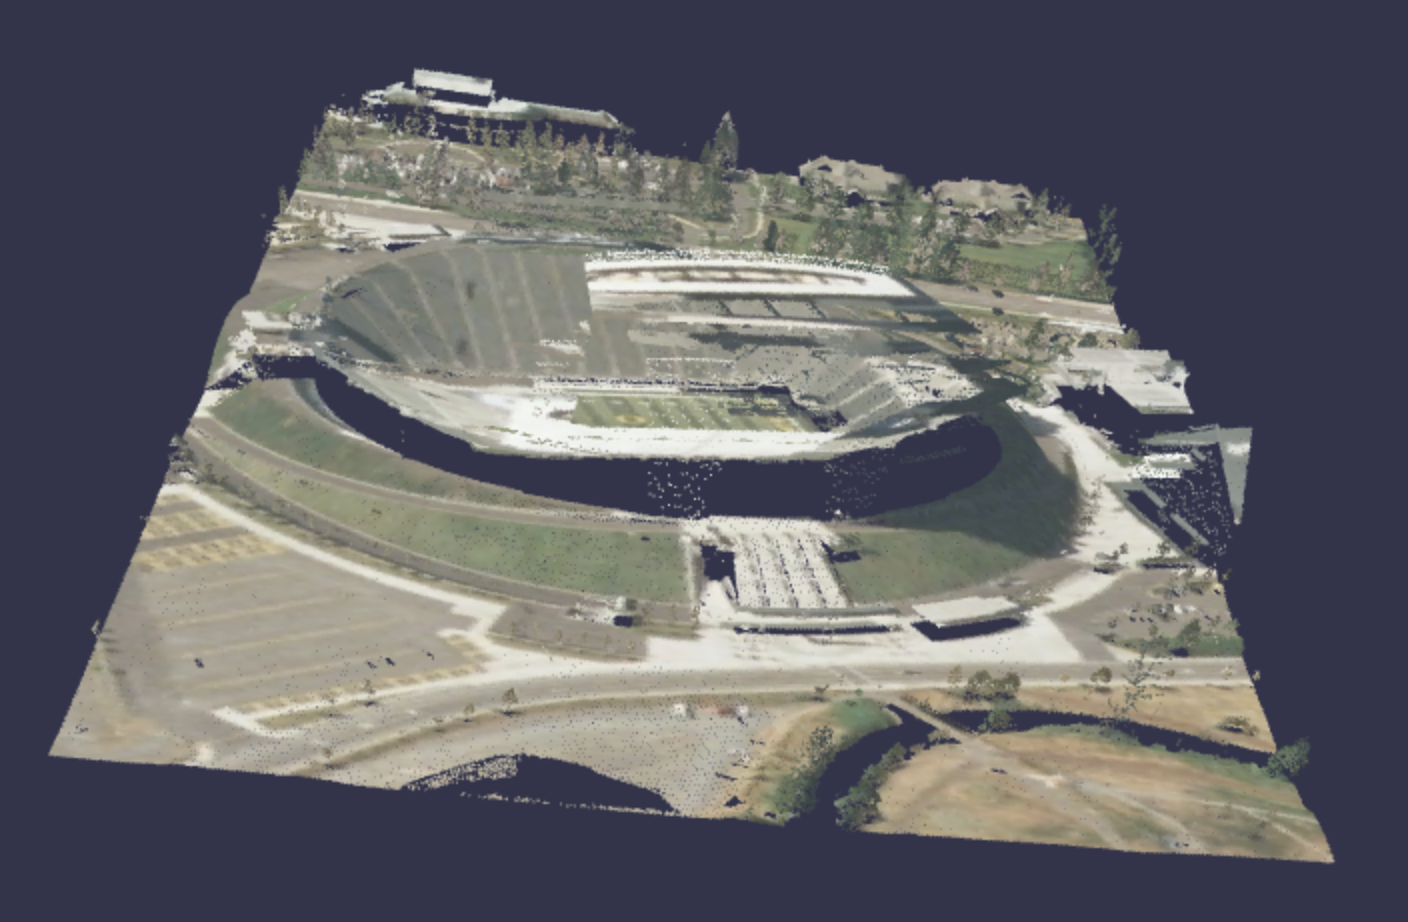
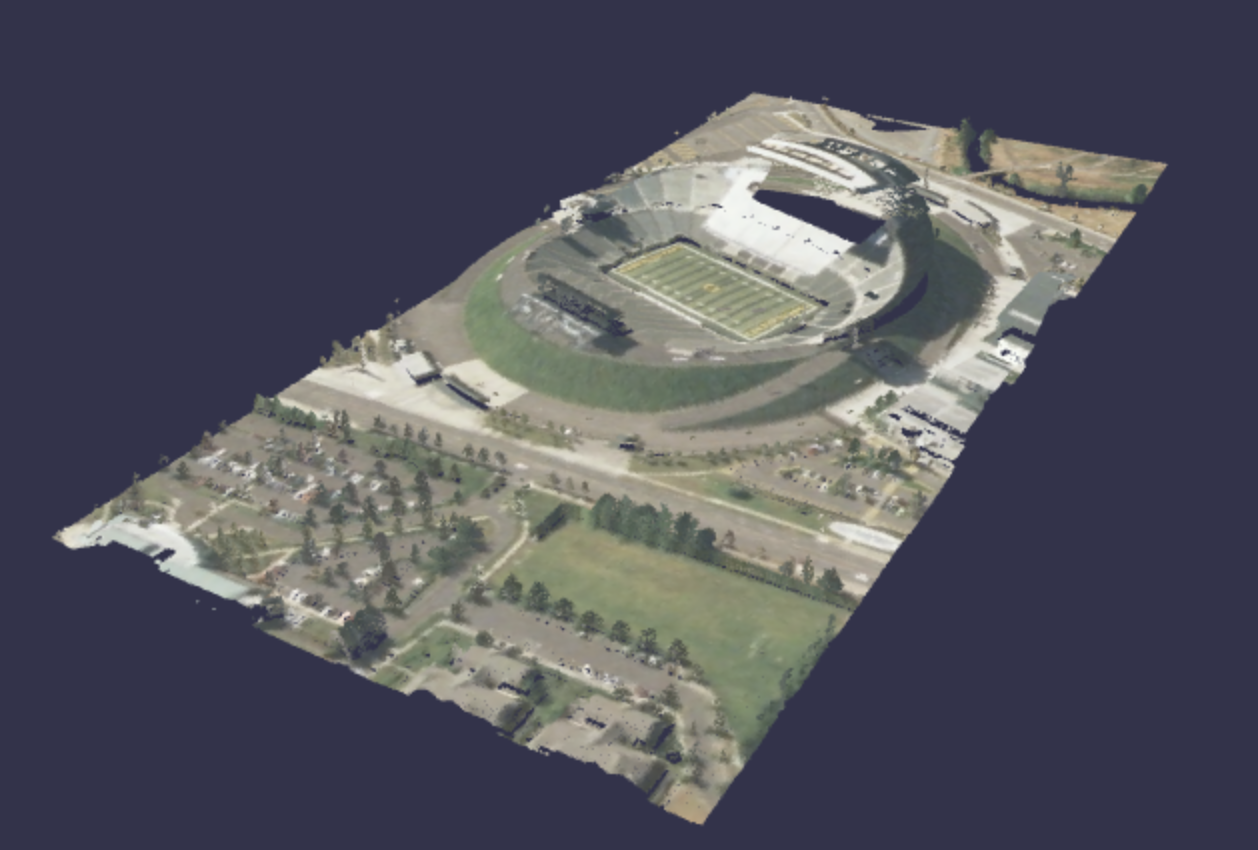
updated MBRS visualization

diff --git a/src/widget.ts b/src/widget.ts
@@ -20,7 +20,6 @@ import "@babylonjs/inspector";
 // Import the CSS
 import '../css/widget.css';
 
-
 export class BabylonBaseModel extends DOMWidgetModel {
   static model_module = MODULE_NAME;
   static model_module_version = MODULE_VERSION;
@@ -298,42 +297,61 @@ export class BabylonMBRSView extends BabylonBaseView {
       const miny = extents[2];
       const maxy = extents[3];
       const minz = extents[4];
-      const maxz = extents[5];
+      const xy_length = Math.min(Math.max(maxx)-Math.min(minx),Math.max(maxy)-Math.min(miny))
       const scale = this.zScale;
- 
+
+      // set up camera
+      scene.createDefaultCameraOrLight(true, true, true)
+      let camera = scene.activeCamera as ArcRotateCamera;
+      camera.alpha += Math.PI;
+      camera.upperBetaLimit = Math.PI / 2;
+      camera.panningAxis = new Vector3(1, 1, 0);
+      camera.panningSensibility = 0.9;
+      camera.panningInertia = 0.2;
+      camera._panningMouseButton = 0;
+
+      if (this.wheelPrecision > 0)
+        camera.wheelPrecision = this.wheelPrecision;
+
+      camera.setTarget(new Vector3((((maxx+minx)/2) - minx) / xy_length, 0, (((maxy+miny)/2) - miny) / xy_length));
+      camera.attachControl(this.canvas, true);
+
       var mat = new StandardMaterial('mt1', scene);
-      mat.alpha = 0.9;
+      mat.alpha = 0.85;
+      mat.diffuseColor = new Color3(0, 0, 0);
+      mat.emissiveColor = new Color3(0.5, 0.5, 0.5);
 
-      const SPS = new SolidParticleSystem("SPS", scene);
+      // create initial particles
+      const SPS = new SolidParticleSystem("SPS", scene, {enableDepthSort: true});
       const box = MeshBuilder.CreateBox("b", {height: 1, width: 1, depth: 1});
-      SPS.addShape(box, data.Xmin.length); 
+      SPS.addShape(box, data.Xmin.length);
+      var mesh = SPS.buildMesh();
+      mesh.material = mat;
       box.dispose(); 
-
-      SPS.buildMesh(); 
-
+      
+      // add dimensions and a random color to each of the particles
       SPS.initParticles = () => {
         for (let p = 0; p < SPS.nbParticles; p++) {
-            const particle = SPS.particles[p];
-            particle.position.x = ((data.Xmax[p]+data.Xmin[p])/2 - minx) / (maxx - minx);
-            particle.position.y = ((data.Ymax[p]+data.Ymin[p])/2 - miny) / (maxy - miny);
-            particle.position.z = (((data.Zmax[p]+data.Zmin[p])/2 - minz) / (maxz - minz)) * scale;
-            particle.scaling.x = (data.Xmax[p]-data.Xmin[p]) / (maxx - minx);
-            particle.scaling.y = (data.Ymax[p]-data.Ymin[p]) / (maxy - miny);
-            particle.scaling.z = ( (data.Zmax[p]-data.Zmin[p]) / (maxz - minz) ) * scale;
-            particle.color = new Color4(0.5 + Math.random() * 0.6, 0.5 + Math.random() * 0.6, 0.5 + Math.random() * 0.6,0.9);
+          const particle = SPS.particles[p];
+          particle.position.x = (((data.Xmax[p]+data.Xmin[p])/2) - minx) / xy_length;
+          particle.position.y = ((((data.Zmax[p]+data.Zmin[p])/2) - minz) / xy_length ) * scale;  
+          particle.position.z = (((data.Ymax[p]+data.Ymin[p])/2) - miny) / xy_length;
+          particle.scaling.x = (data.Xmax[p]-data.Xmin[p]) / xy_length;
+          particle.scaling.y = ((data.Zmax[p]-data.Zmin[p]) / xy_length) * scale;  
+          particle.scaling.z = (data.Ymax[p]-data.Ymin[p]) / xy_length;
+          particle.color = new Color4(0.5 + Math.random() * 0.6, 0.5 + Math.random() * 0.6, 0.5 + Math.random() * 0.6,0.9);   
         }
       };
 
-      SPS.mesh.hasVertexAlpha = true;
-      SPS.initParticles(); 
-      SPS.setParticles(); 
-      SPS.mesh.material = mat;
+      // update SPS mesh
+      SPS.initParticles();
+      SPS.setParticles();
 
-      scene.createDefaultCameraOrLight(true, true, true);
-      let cam = scene.activeCamera as ArcRotateCamera;
-      cam.wheelPrecision = this.wheelPrecision;
-      cam.alpha += Math.PI;
-
+      // animation
+      scene.registerBeforeRender(function() {
+        SPS.setParticles();
+      });
+      
       return scene;
     });
   }

diff --git a/pybabylonjs/visualize.py b/pybabylonjs/visualize.py
@@ -51,7 +51,7 @@ class Show:
         if style == "mbrs":
             dataviz = BabylonMBRS()
             d = create_mbrs(array_uri)
-        if style == "ground":
+        elif style == "ground":
             dataviz = BabylonGround()
             d = create_ground(array_uri, **kwargs)
         else:

diff --git a/README.md b/README.md
@@ -108,27 +108,45 @@ Visualize the 3D point cloud with `pybabylonjs.Show.from_dict()` by specifying `
 show.from_dict(data=data,
                 style = 'pointcloud',
                 width = 800,
-                height = 600,
-                z_scale = .3,
-                wheel_precision = 50)
+                height = 600)
 ```
 
 This creates an interactive visualization in a notebook widget of which the below is a screenshot:
 
 <img src="examples/pointcloud.png"  width="400" height="300" />
 
-### 3D MBRS visualization
-
-This visualization is created directly from a sparse array by specifying the `array`, the style as `mbrs` and optional `height` and `width` parameters:
+To add a slider over time sort the data by `GpsTime` and add the parameter `time=True`:
 
 ```python
-show.from_array(array='autzen',
+with tiledb.open("autzen") as arr:
+    df = pd.DataFrame(arr[636800:637800, 851000:853000, 406.14:615.26])
+    
+df.sort_values(by=["GpsTime"], inplace=True)
+
+data = {
+    'X': df['X'],
+    'Y': df['Y'],
+    'Z': df['Z'],
+    'Red': df['Red'] / 255.0,
+    'Green': df['Green'] / 255.0,
+    'Blue': df['Blue'] / 255.0,
+    'GpsTime': df['GpsTime']}
+
+show.from_dict(data=data, style="pointcloud", time=True)
+```    
+
+### 3D MBRS visualization
+
+This visualization is created directly from a sparse array by specifying the `array_uri`, the style as `mbrs` and optional `height` and `width` parameters:
+
+```python
+show.from_array(array_uri='autzen',
                 style='mbrs',
                 width=800,
                 height=600,
                 z_scale = 0.5)
 ```
 
-Which creates the below interactive visualization in a notebook widget of which the below is a screenshot:
+This creates an interactive visualization in a notebook widget of which the below is a screenshot:
 
 <img src="examples/mbrs.png"  width="400" height="300" />
